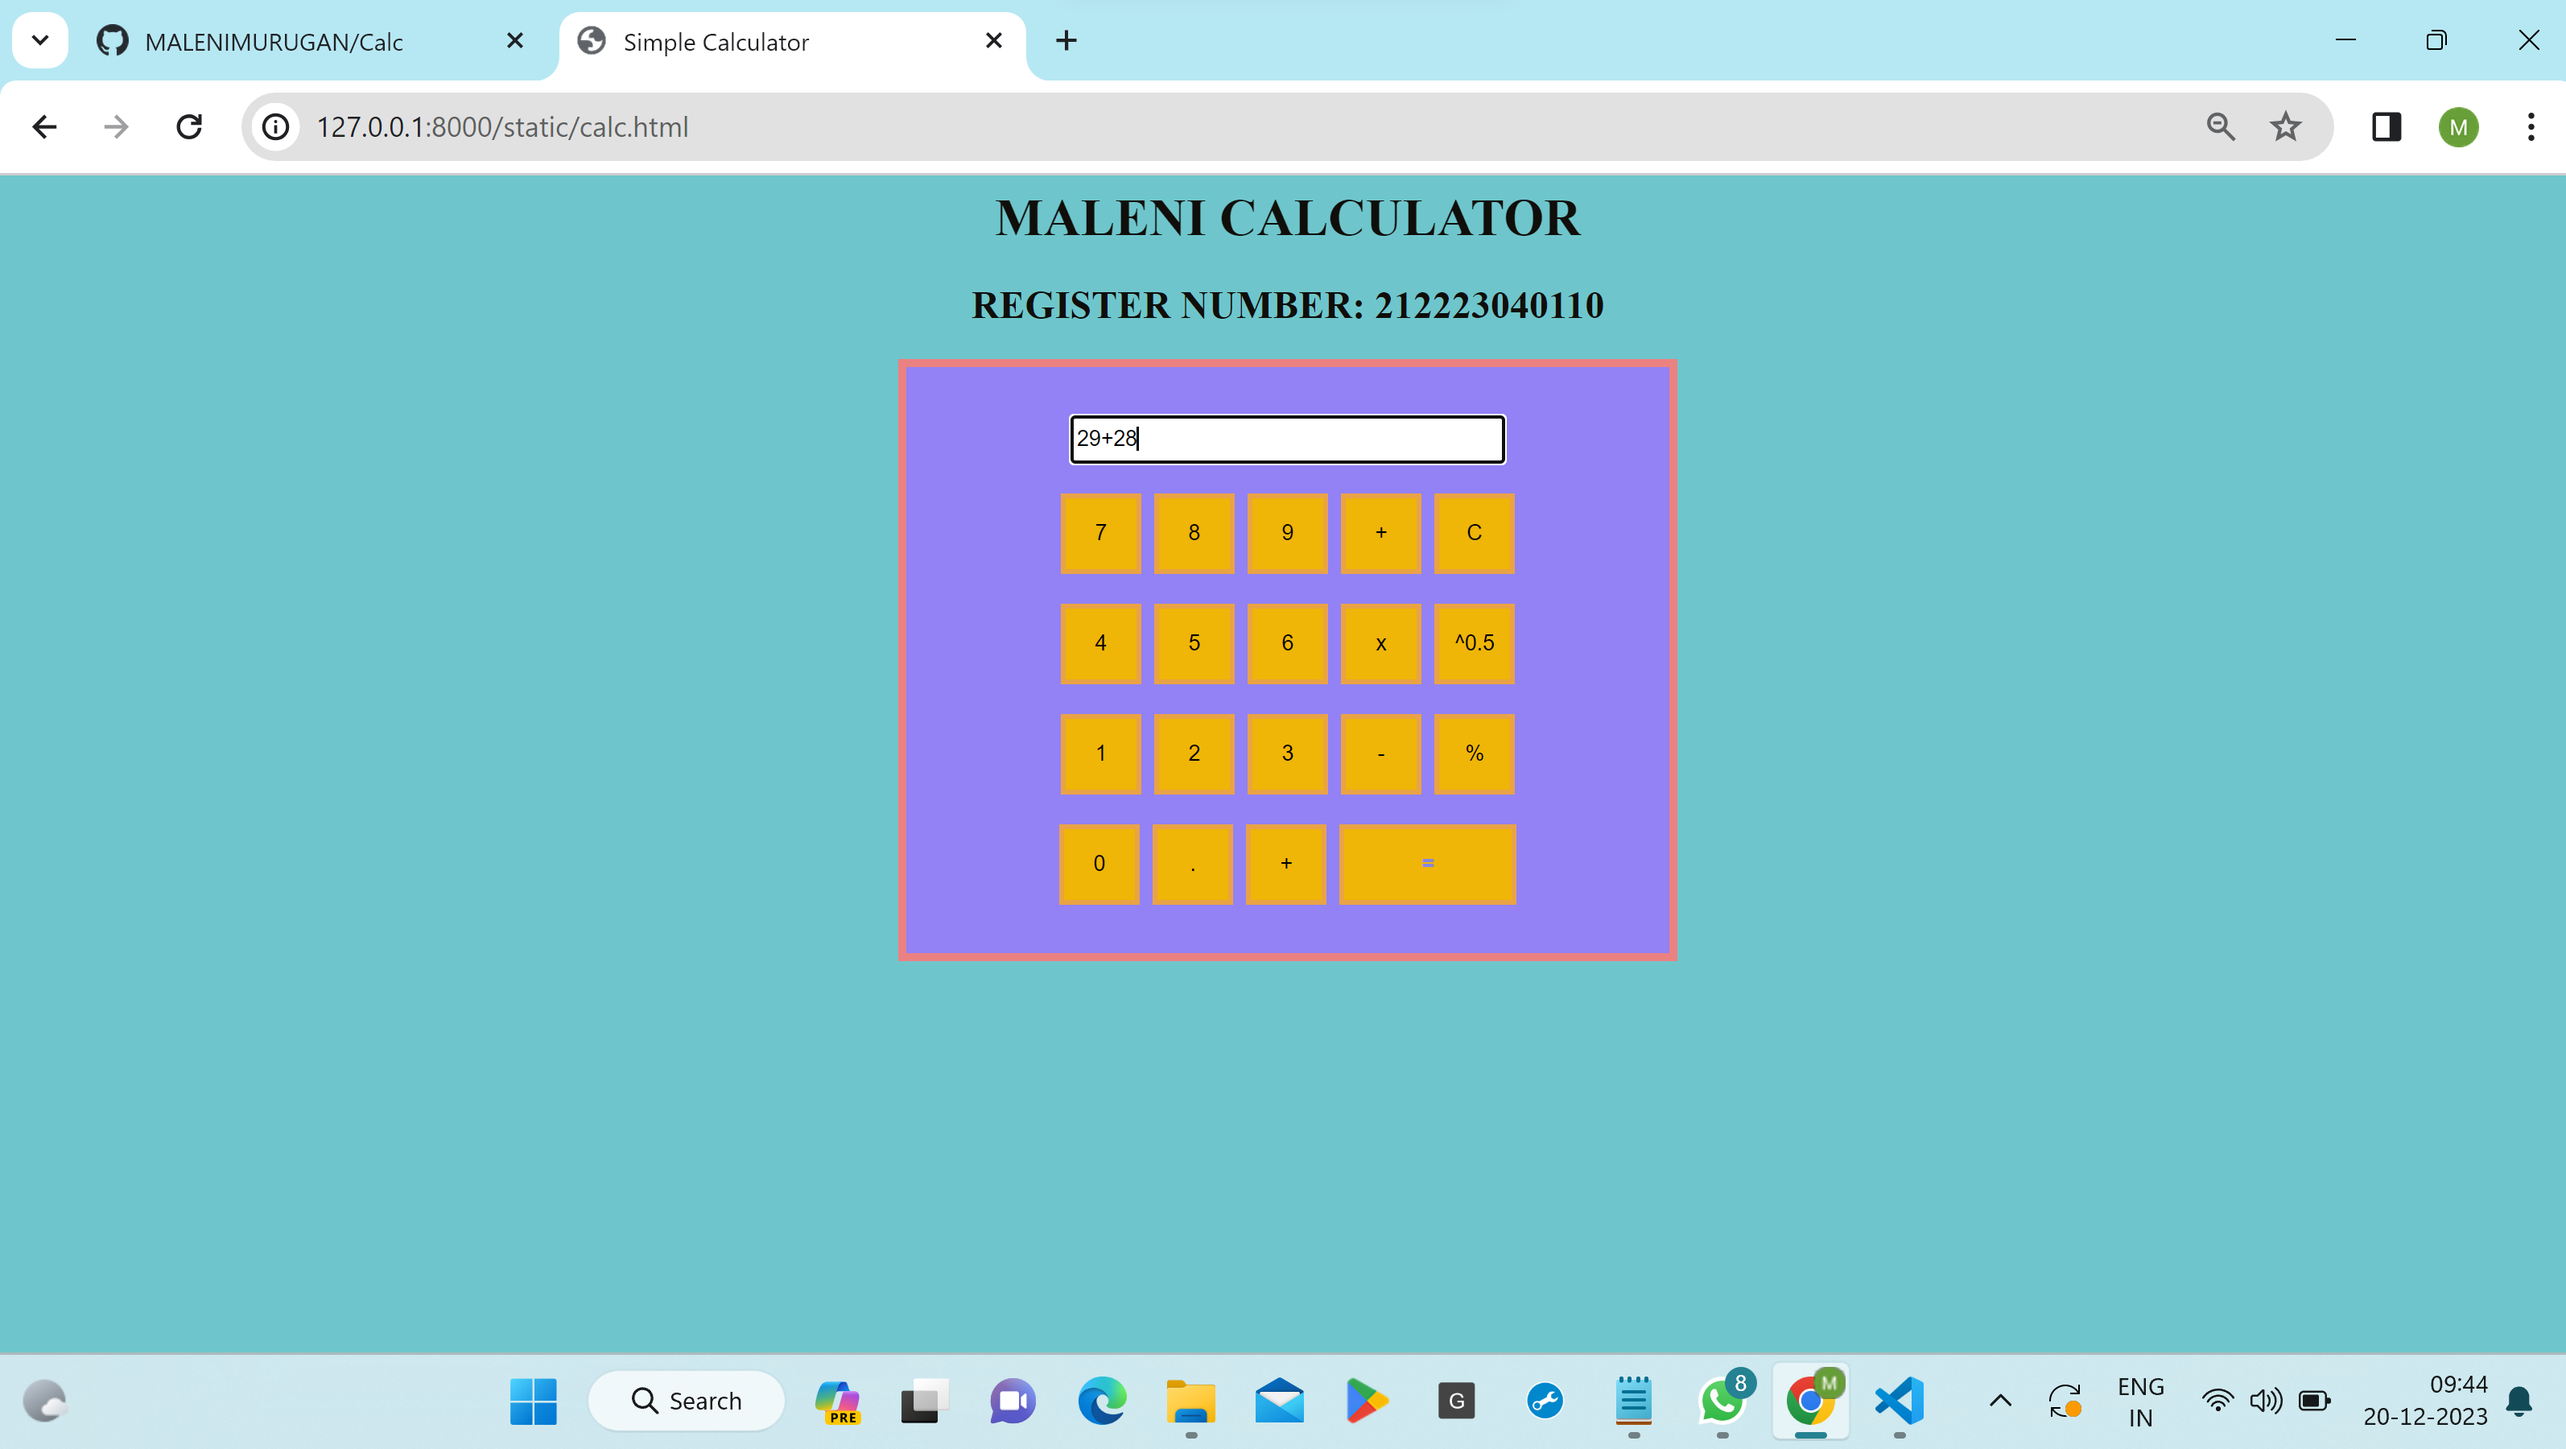
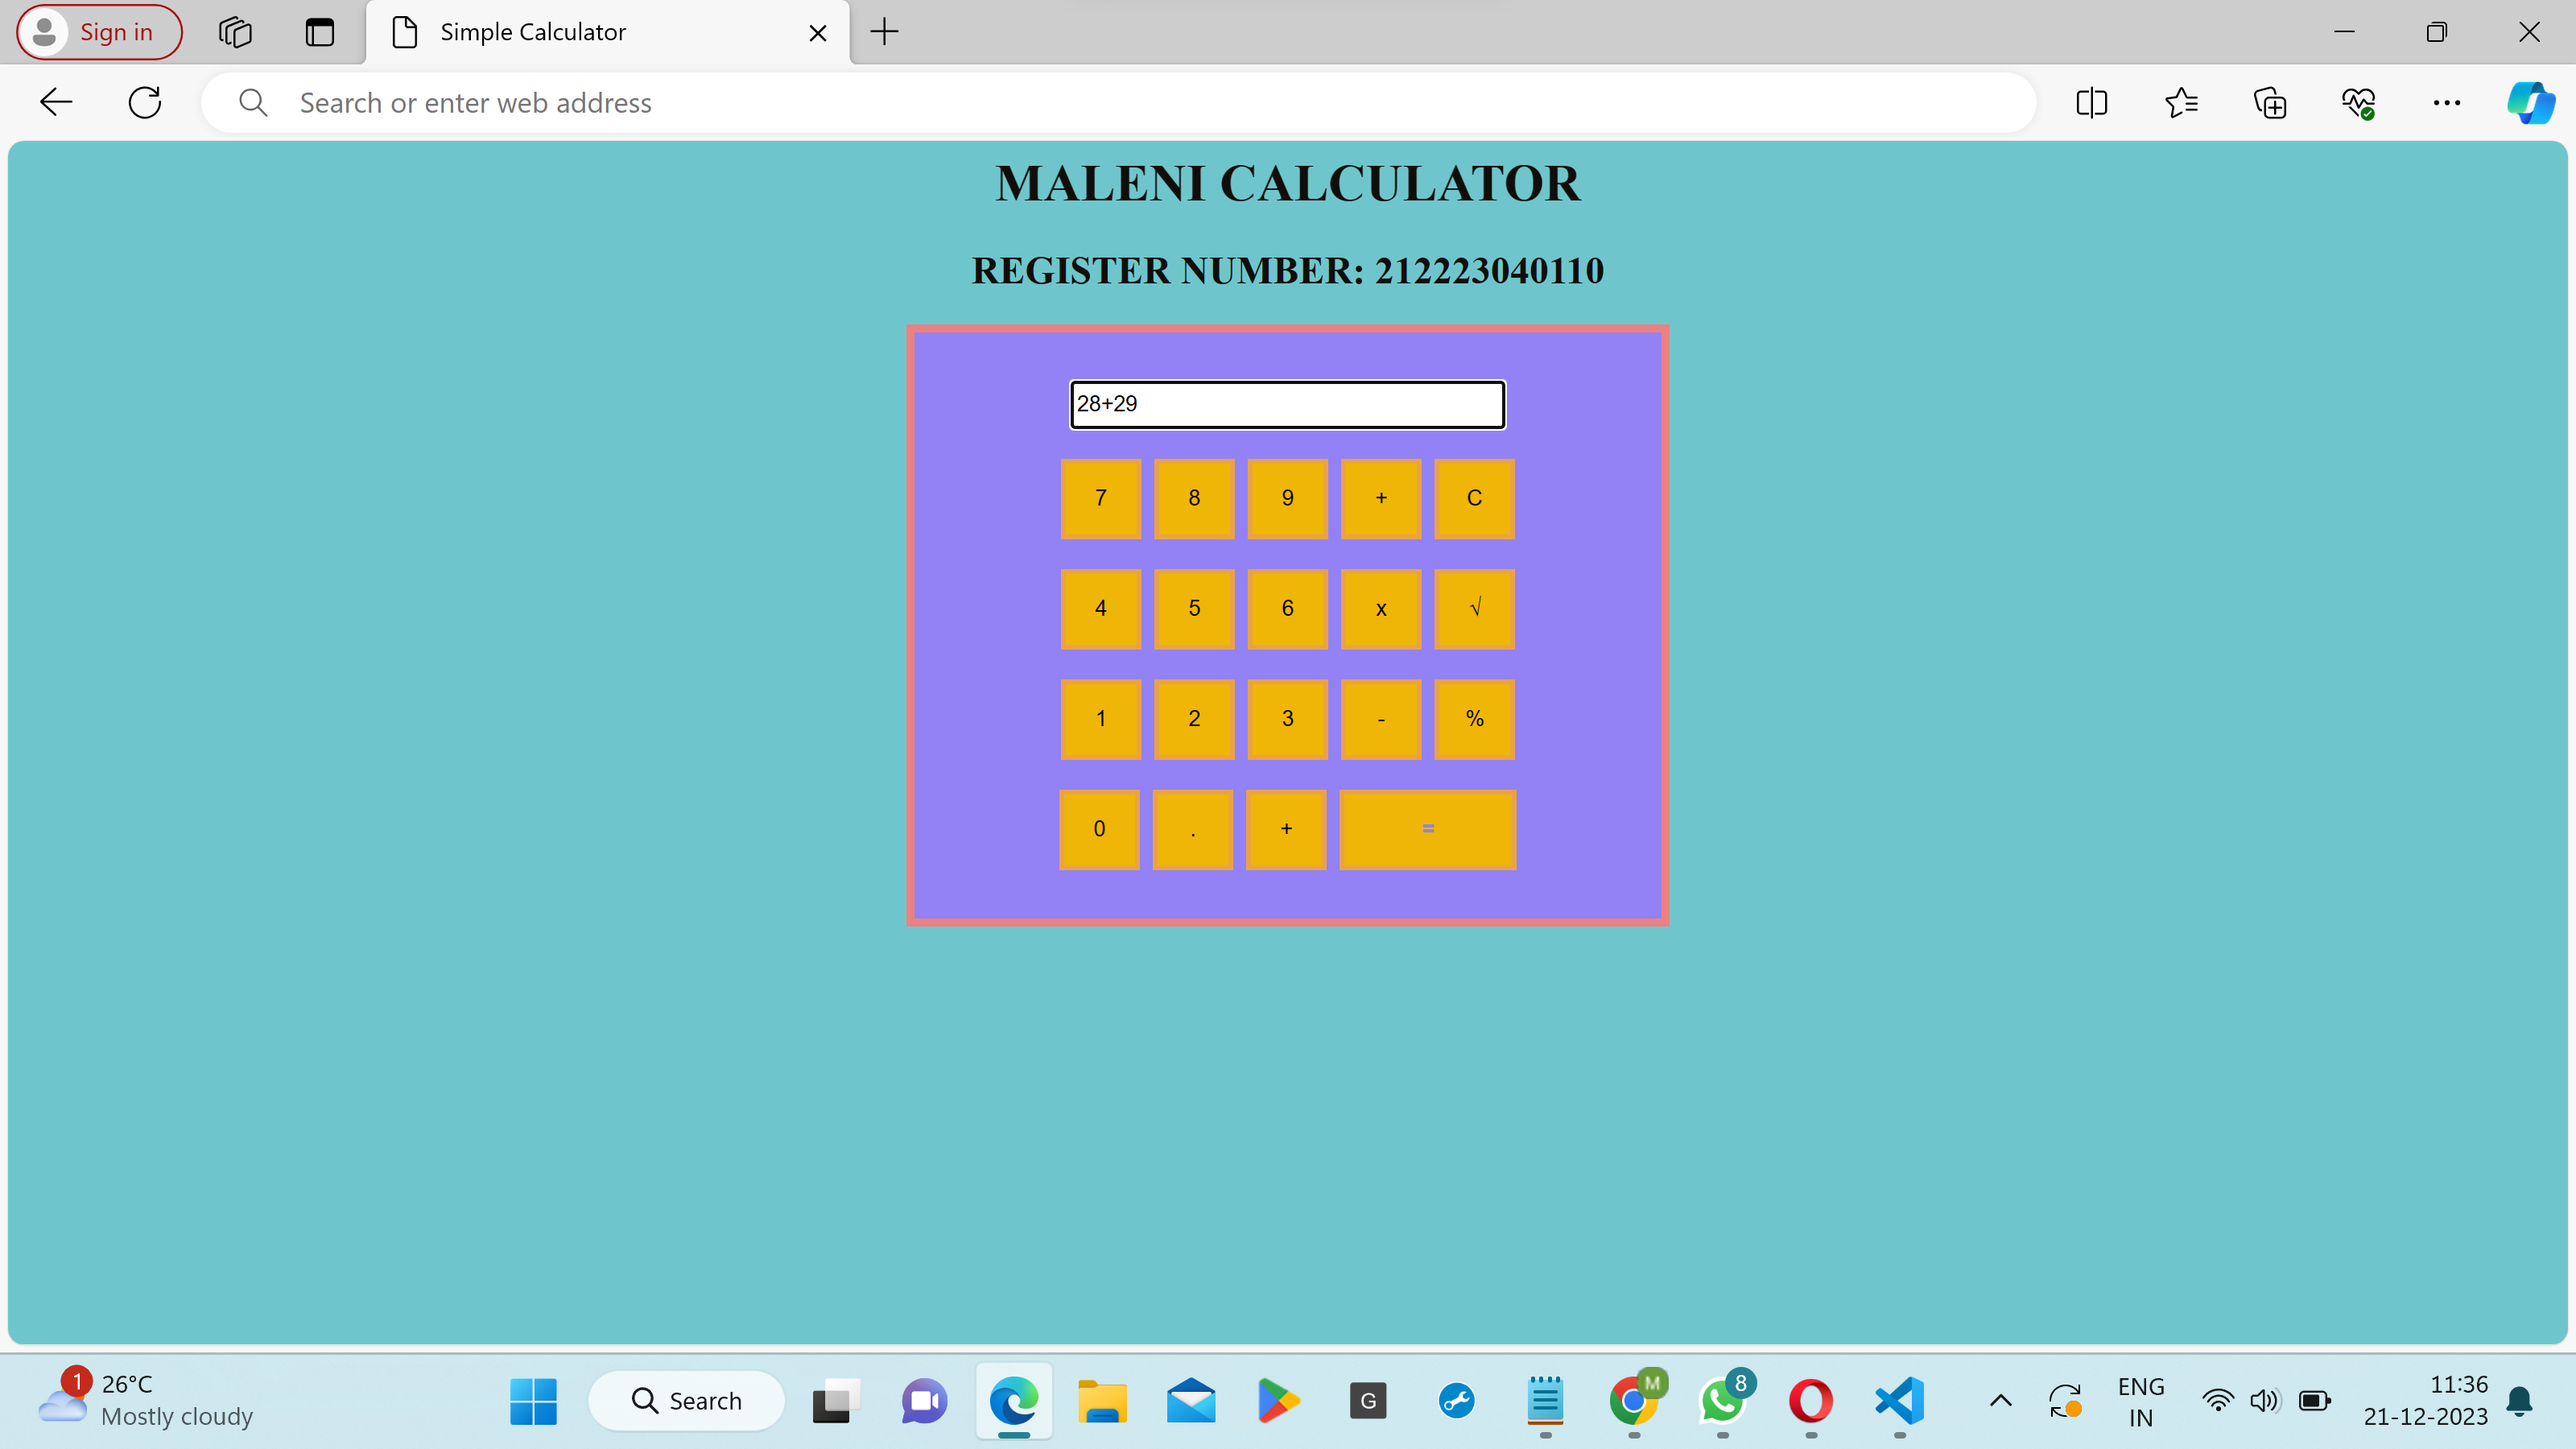
Success

Changed region(s): [[0.0, 0.0, 1.0, 0.9956], [0.2484, 0.9644, 0.2795, 0.9956]]

diff --git a/calculator/calci/static/calc.html b/calculator/calci/static/calc.html
@@ -44,7 +44,7 @@
             <input type="button" onkeydown="op(event)" onclick="f('5')" value="5">
             <input type="button" onkeydown="op(event)" onclick="f('6')" value="6">
             <input type="button" onkeydown="op(event)" onclick="f('*')" value="x">
-            <input type="button" onkeydown="op(event)" onclick="f('^0.5')" value="^0.5"><br><br>
+            <input type="button" onkeydown="op(event)" onclick="f('^0.5')" value="&radic;"><br><br>
     
             <input type="button" onkeydown="op(event)" onclick="f('1')" value="1">
             <input type="button" onkeydown="op(event)" onclick="f('2')" value="2">

diff --git a/README.md b/README.md
@@ -72,7 +72,7 @@ Publish the website in the given URL.
             <input type="button" onkeydown="op(event)" onclick="f('5')" value="5">
             <input type="button" onkeydown="op(event)" onclick="f('6')" value="6">
             <input type="button" onkeydown="op(event)" onclick="f('*')" value="x">
-            <input type="button" onkeydown="op(event)" onclick="f('^0.5')" value="^0.5"><br><br>
+            <input type="button" onkeydown="op(event)" onclick="f('^0.5')" value="&radic;"><br><br>
     
             <input type="button" onkeydown="op(event)" onclick="f('1')" value="1">
             <input type="button" onkeydown="op(event)" onclick="f('2')" value="2">
